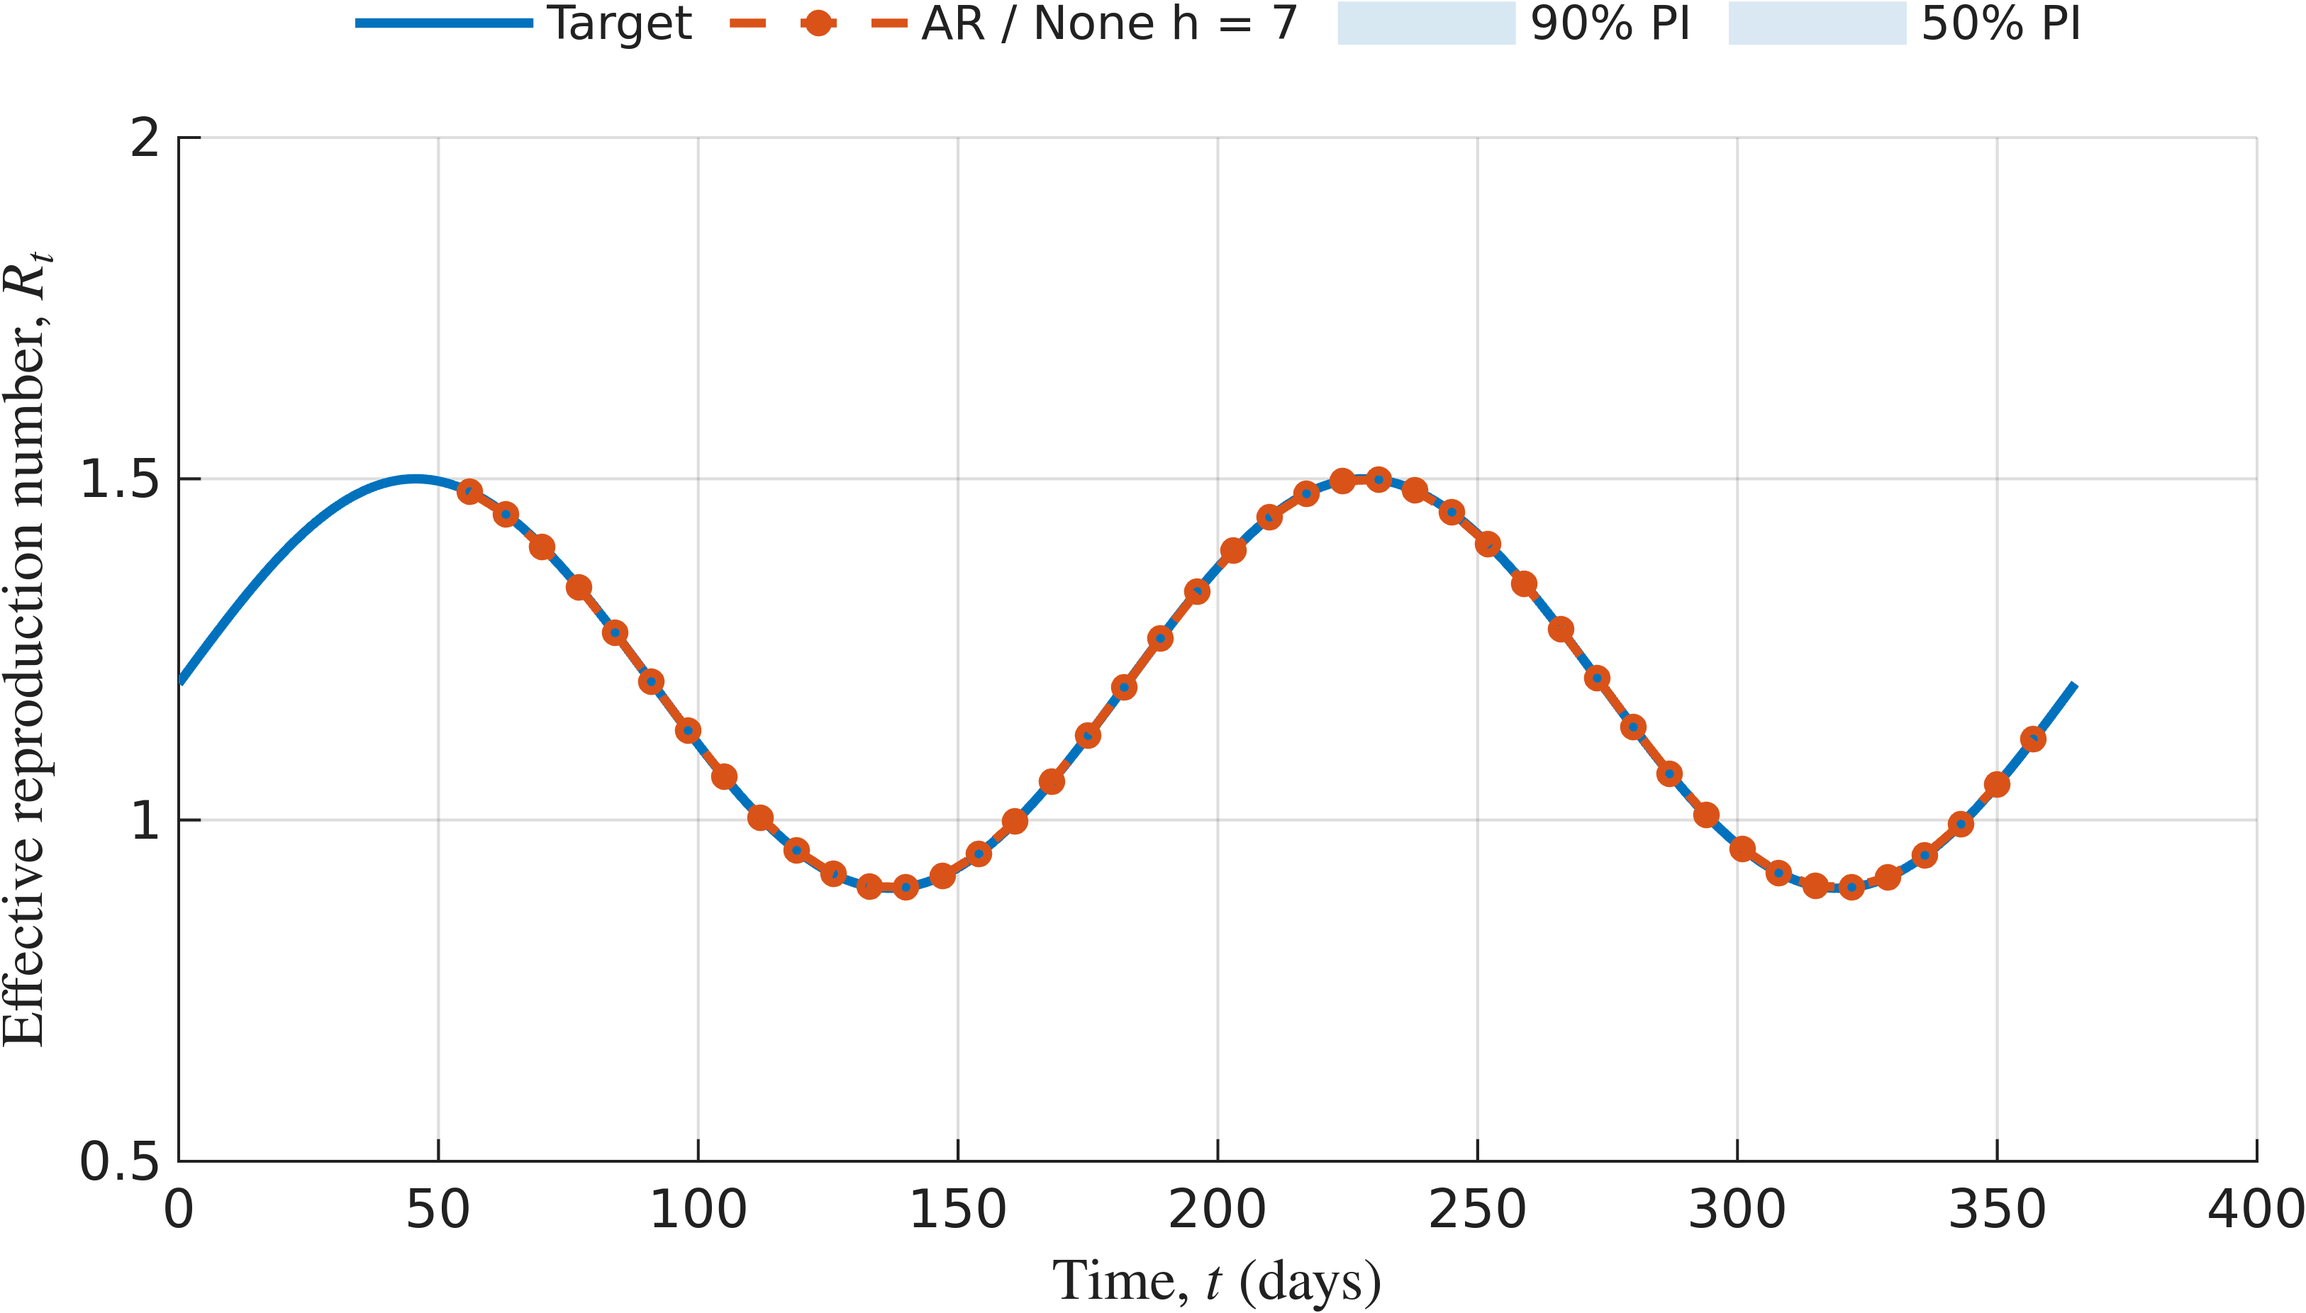
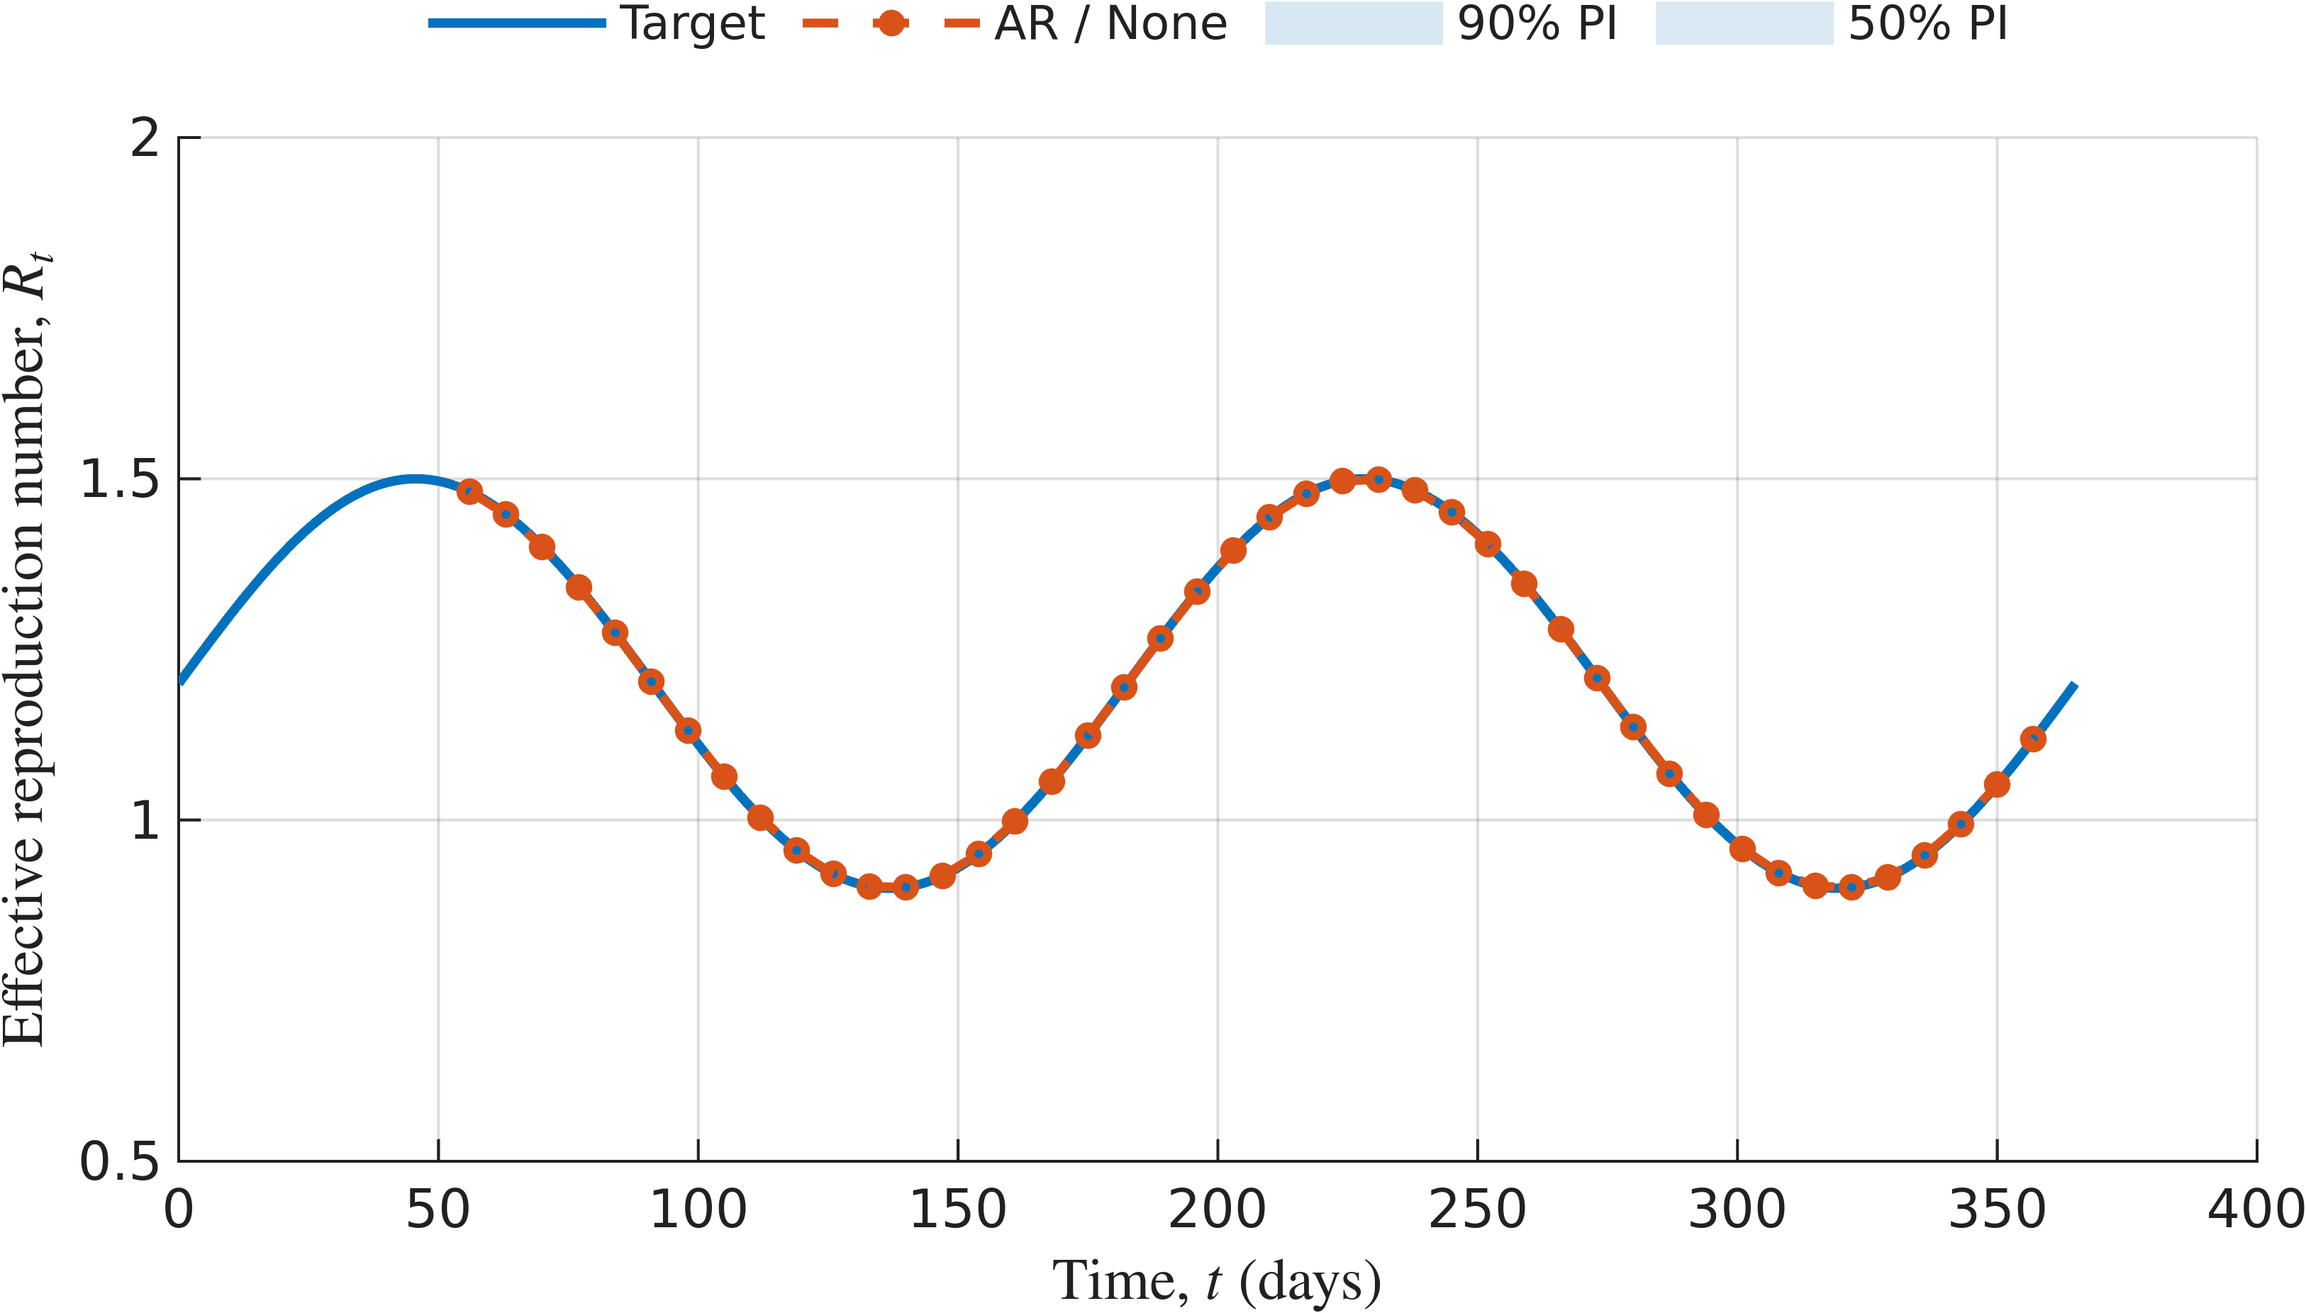
Refactor code structure for improved readability and maintainability

Changed region(s): [[0.2174, 0.0, 0.5901, 0.0308], [0.6212, 0.0, 0.9007, 0.0308], [0.1553, 0.0, 0.1863, 0.0308]]

diff --git a/scripts/partB/partB_04_generate_figures.m b/scripts/partB/partB_04_generate_figures.m
@@ -9,7 +9,7 @@
 %   Workflow:
 %       1. Load cross-case evaluation, truth, and forecast artifacts.
 %       2. Generate case-level diagnostic figures under each case folder.
-%       3. Generate thesis-level robustness figures under results/partB/figures.
+%       3. Generate thesis-level cross-case figures under results/partB/figures.
 %
 %   See also PARTB_CONFIG, PARTB_03_EVALUATE_MODELS, BUILD_PLOT_SPEC, ...
 %            PLOT_SINGLE_PANEL, PLOT_MULTI_PANEL_FIGURE, EXPORT_FIGURE.
@@ -53,7 +53,6 @@ local_generate_case_diagnostics(cfg, truth_records, forecast_records, ...
     window_scores, summary_tables);
 
 %% 4. Thesis-Level Figures
-local_draw_robustness_ladder_overview(cfg, figure_dir);
 local_draw_observation_noise_example(cfg, figure_dir, truth_records);
 local_draw_process_noise_example(cfg, figure_dir, truth_records);
 local_draw_structural_mismatch_truth(cfg, figure_dir, truth_records);
@@ -75,7 +74,7 @@ fprintf('=== Part B Robustness-Ladder Figure Generation Complete ===\n\n');
 
 %% 6. Local Functions
 function local_generate_case_diagnostics(cfg, truth_records, ...
-    forecast_records, window_scores, summary_tables)
+    forecast_records, window_scores)
 %LOCAL_GENERATE_CASE_DIAGNOSTICS Write case-specific diagnostic figures.
     if isempty(window_scores) || height(window_scores) == 0
         return;
@@ -88,7 +87,6 @@ function local_generate_case_diagnostics(cfg, truth_records, ...
 
         case_scores = window_scores(window_scores.CaseID == case_id, :);
         local_draw_case_wis_distribution(case_dir, case_id, case_scores);
-        local_draw_case_horizon_wis(case_dir, case_id, summary_tables);
         model_cases = local_fixed_model_cases(cfg);
         for m = 1:numel(model_cases)
             local_draw_case_representative_forecast(cfg, case_dir, case_id, ...
@@ -102,58 +100,39 @@ function output_path = local_draw_case_wis_distribution(case_dir, case_id, case_
     spec = build_plot_spec( ...
         'figure_name', sprintf('Part B %s WIS distribution', char(case_id)), ...
         'title', "", ...
-        'x_label', "Fixed forecast configuration", ...
-        'y_label', "Window WIS", ...
+        'shared_x_label', "Fixed forecast configuration", ...
+        'shared_y_label', "Window WIS", ...
         'font_size', 9, ...
         'axis_label_font_size', 10, ...
         'tick_label_font_size', 9, ...
         'x_tick_rotation', 20, ...
         'color_order', local_thesis_color_order(), ...
-        'legend', struct('location', "northoutside", ...
-            'orientation', "horizontal", 'box', "off", 'font_size', 8), ...
+        'layout', struct('num_rows', 2, 'num_cols', 2), ...
+        'legend', struct('visible', false), ...
         'output_path', fullfile(case_dir, sprintf('partB_%s_model_wis_distribution.png', ...
             char(case_id))), ...
-        'size_cm', [16.0, 8.5]);
+        'size_cm', [17.0, 11.0]);
 
     if isempty(case_scores) || height(case_scores) == 0
         output_path = local_export_empty_panel(spec, "No case score data");
         return;
     end
 
-    config_labels = local_model_exo_label(case_scores.Model, case_scores.ExoMode);
-    panel.series = local_box_series(config_labels, case_scores.WindowWIS, ...
-        case_scores.ScenarioName, "Window WIS", 1);
-    fig = plot_single_panel(panel, spec);
-    output_path = export_figure(fig, spec);
-    close(fig);
-end
+    scenario_ids = unique(case_scores.ScenarioName, 'stable');
+    num_scenarios = numel(scenario_ids);
+    panel_labels = local_panel_labels(num_scenarios);
+    panels = repmat(struct('series', local_empty_series(0), ...
+        'plot_spec', struct()), num_scenarios, 1);
 
-function output_path = local_draw_case_horizon_wis(case_dir, case_id, summary_tables)
-%LOCAL_DRAW_CASE_HORIZON_WIS Draw per-case WIS by forecast horizon.
-    spec = build_plot_spec( ...
-        'figure_name', sprintf('Part B %s horizon WIS', char(case_id)), ...
-        'title', "", ...
-        'x_label', "Forecast horizon, $h$ (days)", ...
-        'y_label', "Mean WIS", ...
-        'font_size', 9, ...
-        'axis_label_font_size', 10, ...
-        'tick_label_font_size', 9, ...
-        'color_order', local_thesis_color_order(), ...
-        'legend', struct('location', "northoutside", ...
-            'orientation', "horizontal", 'box', "off", 'font_size', 9), ...
-        'output_path', fullfile(case_dir, sprintf('partB_%s_wis_by_horizon.png', ...
-            char(case_id))), ...
-        'size_cm', [16.0, 8.5]);
-
-    horizon_summary = local_summary_table(summary_tables, 'case_horizon_summary');
-    if isempty(horizon_summary) || height(horizon_summary) == 0
-        output_path = local_export_empty_panel(spec, "No horizon score data");
-        return;
+    for i = 1:num_scenarios
+        rows = case_scores(case_scores.ScenarioName == scenario_ids(i), :);
+        config_labels = local_model_exo_label(rows.Model, rows.ExoMode);
+        panels(i).series = local_box_series(config_labels, rows.WindowWIS, ...
+            rows.ScenarioName, "Window WIS", 1);
+        panels(i).plot_spec = struct('panel_label', panel_labels(i));
     end
 
-    case_rows = horizon_summary(horizon_summary.CaseID == case_id, :);
-    panel.series = local_model_horizon_series(case_rows, false);
-    fig = plot_single_panel(panel, spec);
+    fig = plot_multi_panel_figure(panels, spec);
     output_path = export_figure(fig, spec);
     close(fig);
 end
@@ -209,60 +188,6 @@ function output_path = local_draw_case_representative_forecast(cfg, case_dir, ..
     close(fig);
 end
 
-function output_path = local_draw_robustness_ladder_overview(~, figure_dir)
-%LOCAL_DRAW_ROBUSTNESS_LADDER_OVERVIEW Draw compact robustness schematic.
-    output_file = fullfile(figure_dir, 'partB_robustness_ladder_overview.png');
-    spec = build_plot_spec( ...
-        'figure_name', "Part B robustness ladder overview", ...
-        'title', "", ...
-        'x_label', "", ...
-        'y_label', "", ...
-        'font_size', 9, ...
-        'axis_label_font_size', 10, ...
-        'tick_label_font_size', 9, ...
-        'x_limits', [0.55, 5.45], ...
-        'y_limits', [0.70, 1.25], ...
-        'legend', struct('visible', false), ...
-        'output_path', output_file, ...
-        'size_cm', [17.0, 6.5]);
-
-    x = 1:5;
-    panel.series = [ ...
-        local_line_series(x, ones(size(x)), "", struct('Color', [0.45, 0.45, 0.45], ...
-            'LineWidth', 1.0), 1); ...
-        local_scatter_series(x, ones(size(x)), "", struct('Color', [0.10, 0.10, 0.10], ...
-            'MarkerSize', 34), 2)];
-    fig = plot_single_panel(panel, spec);
-    ax = findobj(fig, 'Type', 'axes');
-    axis(ax, 'off');
-
-    labels = ["Part A clean SIRS" ...
-        "SIRS + observation noise" ...
-        "SIRS + process noise" ...
-        "SEIR structural mismatch" ...
-        "SEIR + observation + process noise"];
-    details = ["uds | no obs/process noise" ...
-        "uds | noisy observations" ...
-        "ssa | stochastic trajectory" ...
-        "uds | SEIR truth" ...
-        "ssa | SEIR truth | noisy observations"];
-    for i = 1:numel(x)
-        text(ax, x(i), 1.13, sprintf('%d', i), ...
-            'HorizontalAlignment', 'center', 'FontWeight', 'bold', ...
-            'FontSize', 10);
-        text(ax, x(i), 1.04, labels(i), ...
-            'HorizontalAlignment', 'center', 'FontSize', 8, ...
-            'FontWeight', 'bold');
-        text(ax, x(i), 0.92, details(i), ...
-            'HorizontalAlignment', 'center', 'FontSize', 7);
-    end
-    text(ax, 3, 0.79, "Fixed Part A-selected AR/None and ARX/I forecasts throughout", ...
-        'HorizontalAlignment', 'center', 'FontSize', 8);
-
-    output_path = export_figure(fig, spec);
-    close(fig);
-end
-
 function output_path = local_draw_observation_noise_example(cfg, figure_dir, truth_records)
 %LOCAL_DRAW_OBSERVATION_NOISE_EXAMPLE Draw latent versus observed Rt input.
     spec = build_plot_spec( ...
@@ -276,7 +201,7 @@ function output_path = local_draw_observation_noise_example(cfg, figure_dir, tru
         'y_limits', cfg.Rt.bounds, ...
         'legend', struct('location', "northoutside", ...
             'orientation', "horizontal", 'box', "off", 'font_size', 9), ...
-        'output_path', fullfile(figure_dir, 'partB_observation_noise_example.png'), ...
+        'output_path', fullfile(figure_dir, 'partB_observation_noise.png'), ...
         'size_cm', [17.0, 8.5]);
 
     idx = find([truth_records.observation_noise_enabled], 1);
@@ -289,9 +214,9 @@ function output_path = local_draw_observation_noise_example(cfg, figure_dir, tru
     truth = truth_records(idx);
     colors = local_thesis_color_order();
     panel.series = [ ...
-        local_line_series(truth.tspan, truth.Rt_true, "Latent $R_t$", ...
+        local_line_series(truth.tspan, truth.Rt_true, "Latent R_t", ...
             struct('Color', colors(1, :), 'LineWidth', 1.6), 1); ...
-        local_line_series(truth.tspan, truth.Rt_model_input, "Model-input $R_t$", ...
+        local_line_series(truth.tspan, truth.Rt_model_input, "Model-input R_t", ...
             struct('Color', colors(2, :), 'LineWidth', 1.0), 2)];
 
     fig = plot_single_panel(panel, spec);
@@ -448,8 +373,7 @@ function output_path = local_draw_robustness_wis_by_horizon(cfg, figure_dir, sum
         'panel_labels', ["A", "B"], ...
         'panel_label_style', struct('FontSize', 10, 'FontWeight', 'bold'), ...
         'layout', struct('num_rows', 1, 'num_cols', 2), ...
-        'legend', struct('location', "northoutside", ...
-            'orientation', "horizontal", 'box', "off", 'font_size', 8), ...
+        'legend', struct('visible', false), ...
         'output_path', fullfile(figure_dir, 'partB_robustness_wis_by_horizon.png'), ...
         'size_cm', [17.0, 8.5]);
 
@@ -469,7 +393,10 @@ function output_path = local_draw_robustness_wis_by_horizon(cfg, figure_dir, sum
         panels(i).plot_spec = struct('title', local_model_case_label(model_cases(i)));
     end
 
-    fig = plot_multi_panel_figure(panels, spec);
+    [fig, ~, axes_handles] = plot_multi_panel_figure(panels, spec);
+    lgd = legend(axes_handles(1), 'Location', 'north', ...
+        'Orientation', 'horizontal', 'Box', 'off', 'FontSize', 8);
+    lgd.Layout.Tile = 'north';
     output_path = export_figure(fig, spec);
     close(fig);
 end
@@ -486,8 +413,7 @@ function output_path = local_draw_coverage_interval_width(cfg, figure_dir, summa
         'panel_labels', ["A", "B"], ...
         'panel_label_style', struct('FontSize', 10, 'FontWeight', 'bold'), ...
         'layout', struct('num_rows', 1, 'num_cols', 2), ...
-        'legend', struct('location', "northoutside", ...
-            'orientation', "horizontal", 'box', "off", 'font_size', 8), ...
+        'legend', struct('visible', false), ...
         'output_path', fullfile(figure_dir, ...
             'partB_robustness_coverage_interval_width.png'), ...
         'size_cm', [17.0, 8.5]);
@@ -515,11 +441,13 @@ function output_path = local_draw_coverage_interval_width(cfg, figure_dir, summa
         panels(p).plot_spec = struct('title', y_labels(p), 'y_label', y_labels(p));
     end
 
-    fig = plot_multi_panel_figure(panels, spec);
-    axes_handles = findobj(fig, 'Type', 'axes');
+    [fig, ~, axes_handles] = plot_multi_panel_figure(panels, spec);
     for i = 1:numel(axes_handles)
         local_apply_axis_ticks(axes_handles(i), x_positions, x_labels);
     end
+    lgd = legend(axes_handles(1), 'Location', 'north', ...
+        'Orientation', 'horizontal', 'Box', 'off', 'FontSize', 8);
+    lgd.Layout.Tile = 'north';
     output_path = export_figure(fig, spec);
     close(fig);
 end
@@ -673,7 +601,7 @@ function series = local_representative_forecast_series(forecast_results, truth_r
     valid_median = isfinite(target_days) & isfinite(pred);
     if any(valid_median)
         series(end + 1, 1) = local_line_series(target_days(valid_median), ...
-            pred(valid_median), sprintf('%s h = %d', model_label, lead_time), ...
+            pred(valid_median), model_label, ...
             struct('Color', colors(2, :), 'LineWidth', 1.5, ...
             'LineStyle', '--', 'Marker', 'o', 'MarkerSize', 3.0), 4);
     end
@@ -713,35 +641,6 @@ function [target_days, median_forecast, lower_forecast, upper_forecast] = ...
                 upper_forecast(i, j) = upper(lead_time, alpha_idx);
             end
         end
-    end
-end
-
-function series = local_model_horizon_series(horizon_rows, include_case_label)
-%LOCAL_MODEL_HORIZON_SERIES Build horizon-wise series by fixed model case.
-    if nargin < 2
-        include_case_label = true;
-    end
-    series = local_empty_series(0);
-    if isempty(horizon_rows) || height(horizon_rows) == 0
-        return;
-    end
-
-    model_key = string(horizon_rows.Model) + " / " + string(horizon_rows.ExoMode);
-    [~, idx] = unique(model_key, 'stable');
-    colors = local_thesis_color_order();
-    for i = 1:numel(idx)
-        model = string(horizon_rows.Model(idx(i)));
-        exo = string(horizon_rows.ExoMode(idx(i)));
-        rows = horizon_rows(horizon_rows.Model == model & ...
-            horizon_rows.ExoMode == exo, :);
-        [horizon, order] = sort(double(rows.HorizonIdx));
-        label = local_model_exo_label(model, exo);
-        if include_case_label && ismember('CaseName', rows.Properties.VariableNames)
-            label = label + " | " + string(rows.CaseName(1));
-        end
-        series(end + 1, 1) = local_line_series(horizon, ...
-            double(rows.MeanWIS(order)), label, ...
-            struct('Color', colors(i, :), 'LineWidth', 1.4), i); %#ok<AGROW>
     end
 end
 
@@ -907,8 +806,7 @@ end
 
 function required = local_required_thesis_figures(figure_dir)
 %LOCAL_REQUIRED_THESIS_FIGURES Return required thesis-level figure paths.
-    names = ["partB_robustness_ladder_overview.png"; ...
-        "partB_observation_noise_example.png"; ...
+    names = ["partB_observation_noise.png"; ...
         "partB_process_noise_uds_vs_ssa.png"; ...
         "partB_structural_mismatch_seir_truth.png"; ...
         "partB_robustness_mean_wis.png"; ...
@@ -1028,18 +926,6 @@ function series = local_line_series(x, y, label, style, rank)
     series.legend_visible = strlength(series.label) > 0;
 end
 
-function series = local_scatter_series(x, y, label, style, rank)
-%LOCAL_SCATTER_SERIES Build one generic scatter series.
-    series = local_empty_series(1);
-    series.type = "scatter";
-    series.x = double(x(:));
-    series.y = double(y(:));
-    series.label = string(label);
-    series.style = style;
-    series.legend_rank = rank;
-    series.legend_visible = strlength(series.label) > 0;
-end
-
 function series = local_box_series(x, y, group, label, rank)
 %LOCAL_BOX_SERIES Build one generic boxchart series.
     series = local_empty_series(1);
@@ -1056,17 +942,6 @@ function values = local_loaded_vector(loaded, field_name)
     values = [];
     if isfield(loaded, field_name) && ~isempty(loaded.(field_name))
         values = double(loaded.(field_name)(:));
-    end
-end
-
-function value = local_loaded_double(loaded, field_name, default_value)
-%LOCAL_LOADED_DOUBLE Read a scalar numeric field.
-    value = default_value;
-    if isfield(loaded, field_name) && ~isempty(loaded.(field_name))
-        raw = double(loaded.(field_name));
-        if isscalar(raw)
-            value = raw;
-        end
     end
 end
 
@@ -1166,5 +1041,13 @@ function value = local_mean_finite(values)
         value = nan;
     else
         value = mean(values);
+    end
+end
+
+function labels = local_panel_labels(num_panels)
+%LOCAL_PANEL_LABELS Build lowercase alphabetical panel labels.
+    labels = strings(num_panels, 1);
+    for i = 1:num_panels
+        labels(i) = sprintf('(%s)', char('a' + i - 1));
     end
 end
